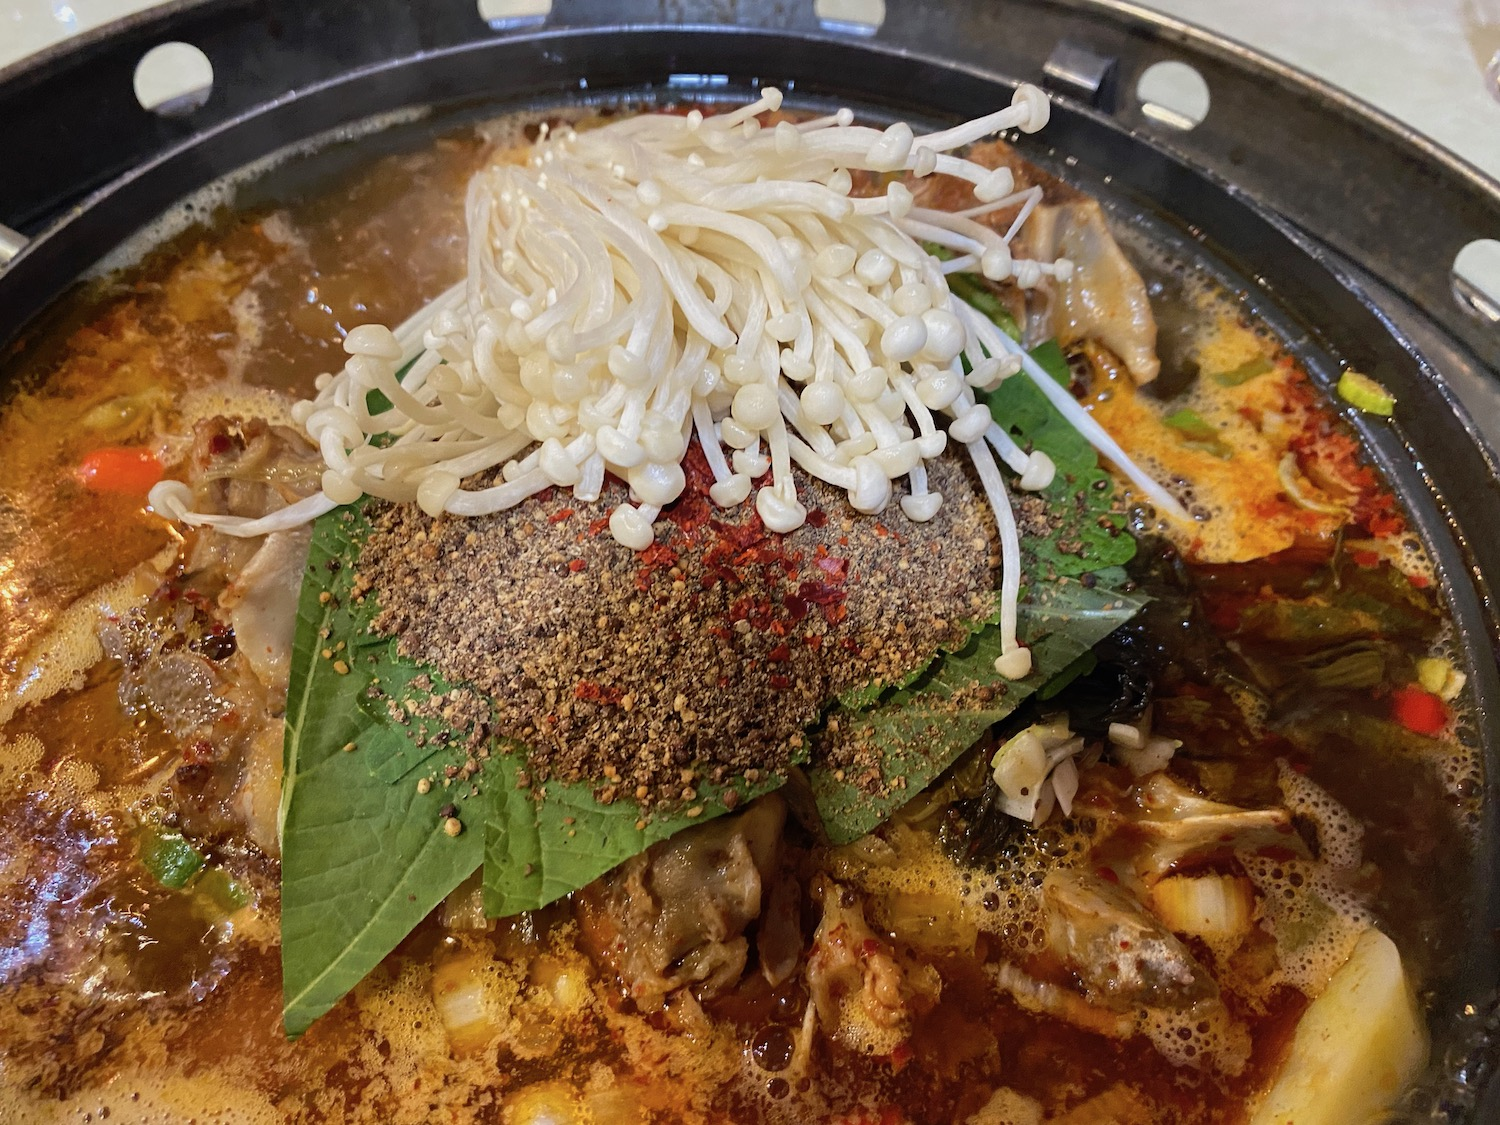
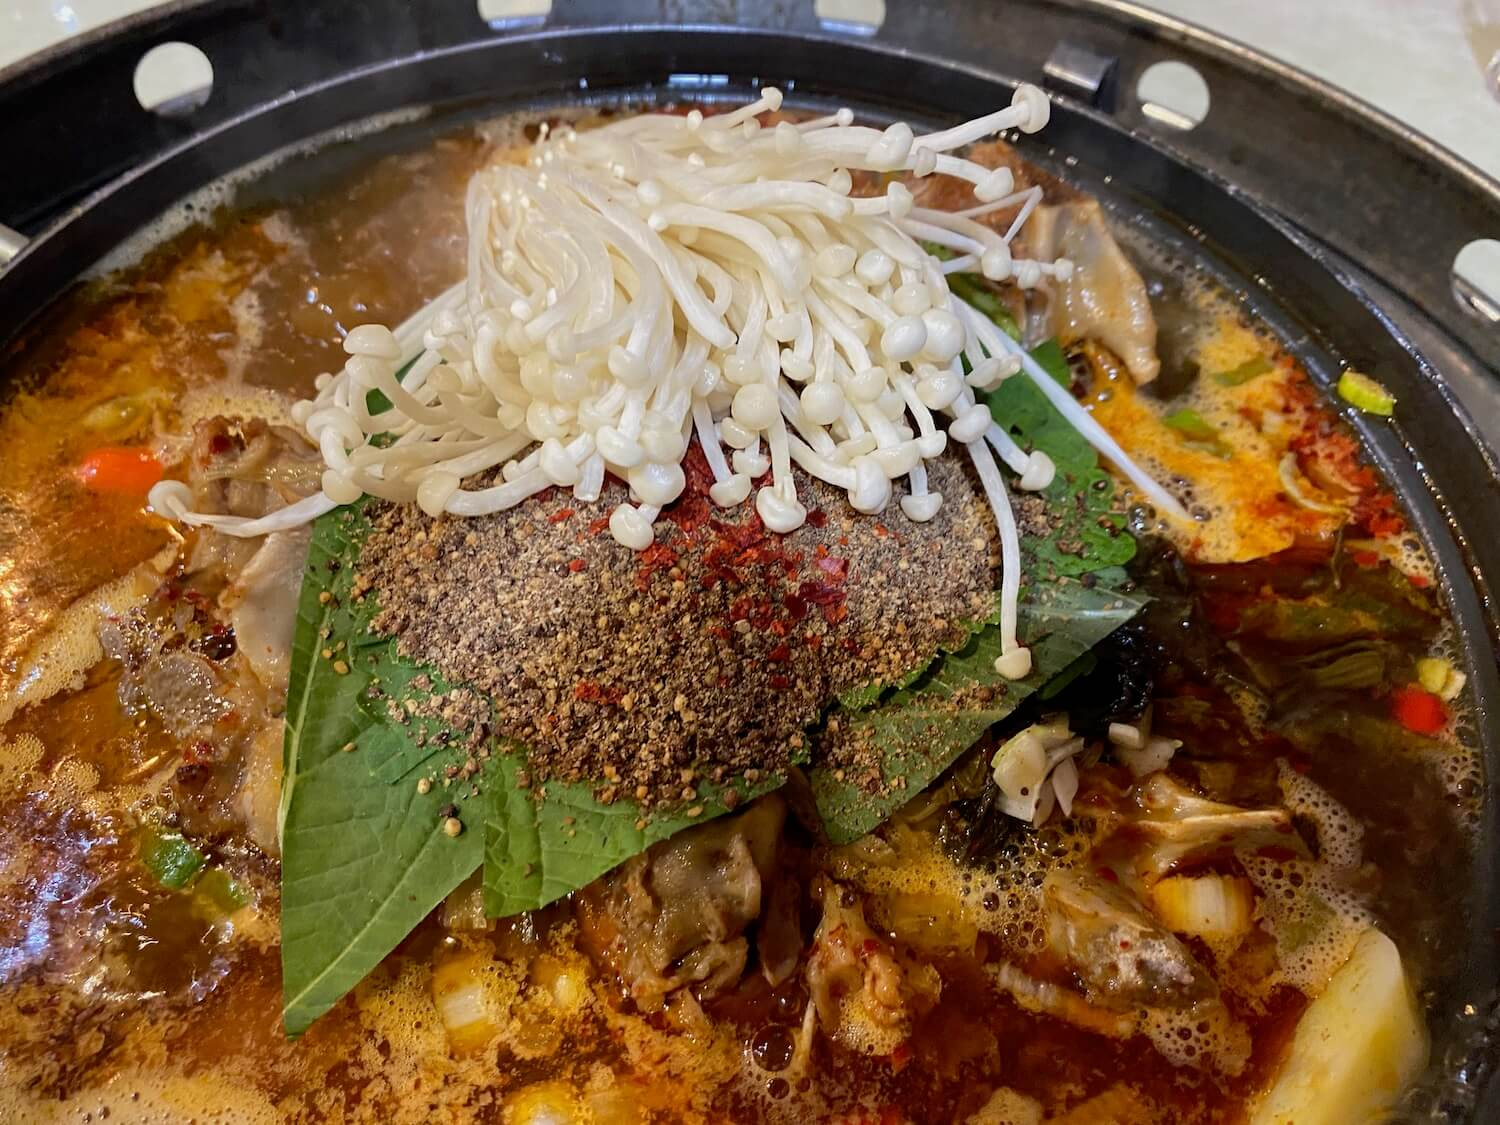
optimized images to load faster on tinypng and  then added to images file.

diff --git a/index.html b/index.html
@@ -109,7 +109,7 @@
 </div>
 <!------------------------------------Introducing the business finished------------------------------------------------->  
 <!-------------Footer--------------------------------------------------------------------------------------------------->
-<div class="d-block">
+<div class="d-block footer">
     <footer>
         <ul class="social-networks">
             <li><a href="https://www.facebook.com" target="_blank"><i class="fab fa-facebook"></i></a></li>
@@ -120,7 +120,6 @@
     </footer>
 </div>
 <!-------Footer finished-------------------------------------------------------------------------------->
-
 <script src="https://cdnjs.cloudflare.com/ajax/libs/jquery/3.5.1/jquery.slim.min.js"></script>
 <script src="https://cdnjs.cloudflare.com/ajax/libs/popper.js/1.16.1/umd/popper.min.js"></script>
 <script src="https://cdnjs.cloudflare.com/ajax/libs/twitter-bootstrap/4.5.2/js/bootstrap.min.js"></script>

diff --git a/assets/css/style.css b/assets/css/style.css
@@ -131,8 +131,19 @@ footer{
     height: 100px;
     width: 100%;
     background-color: #13baec;
-
 }
+
+
+
+
+
+footer{
+    height: 150px;
+    width: 100%;
+    background-color: #13baec;
+    
+}
+
 
 .social-networks{
     text-align: center;
@@ -143,15 +154,19 @@ footer{
     width: 100%;
     text-align: center;
     font-size: 18px;
-    margin: auto;
+    margin: 0;
+    padding: 0;
 }
 
 .social-networks i{
     font-size: 160%;
     margin: 1%;
-    padding: 3%;
+    padding: 5%;
     color: white;
 }
+
+
+
 /* Footer Finished */
 
 /* Alert */
